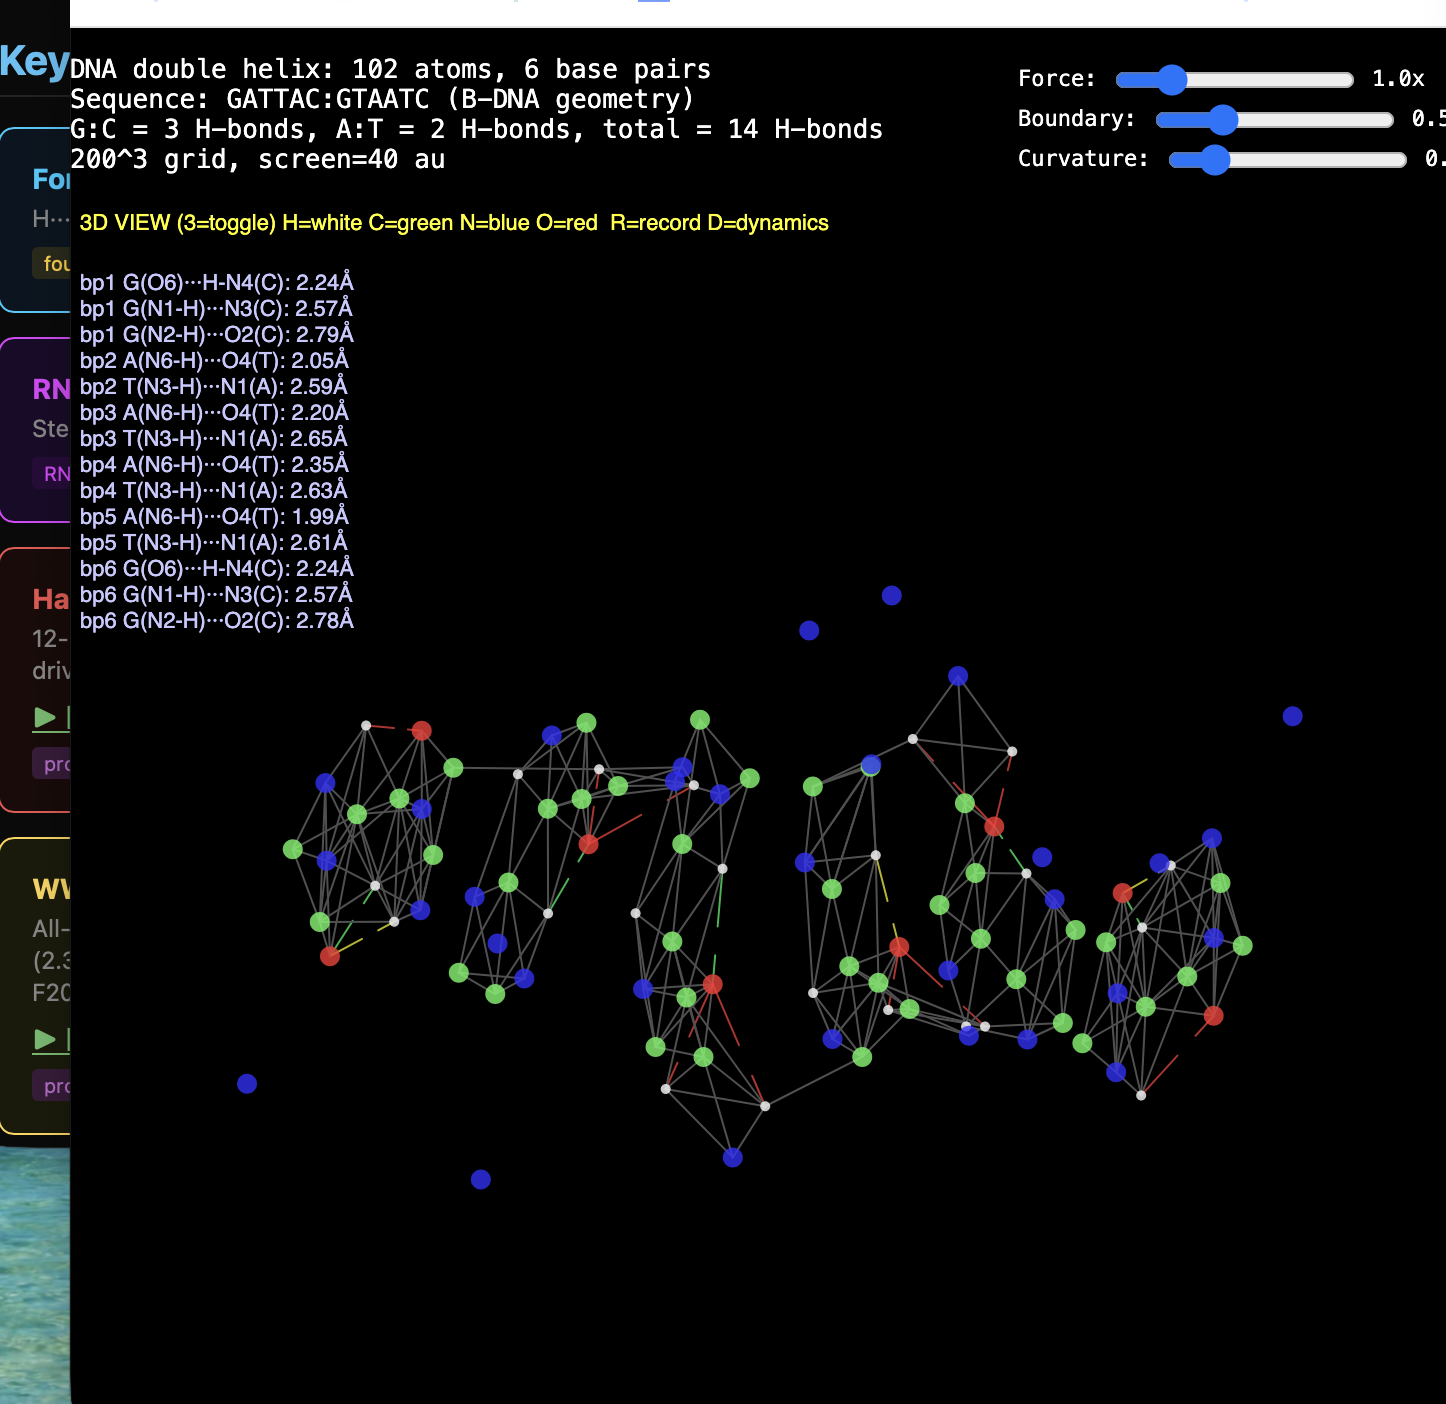
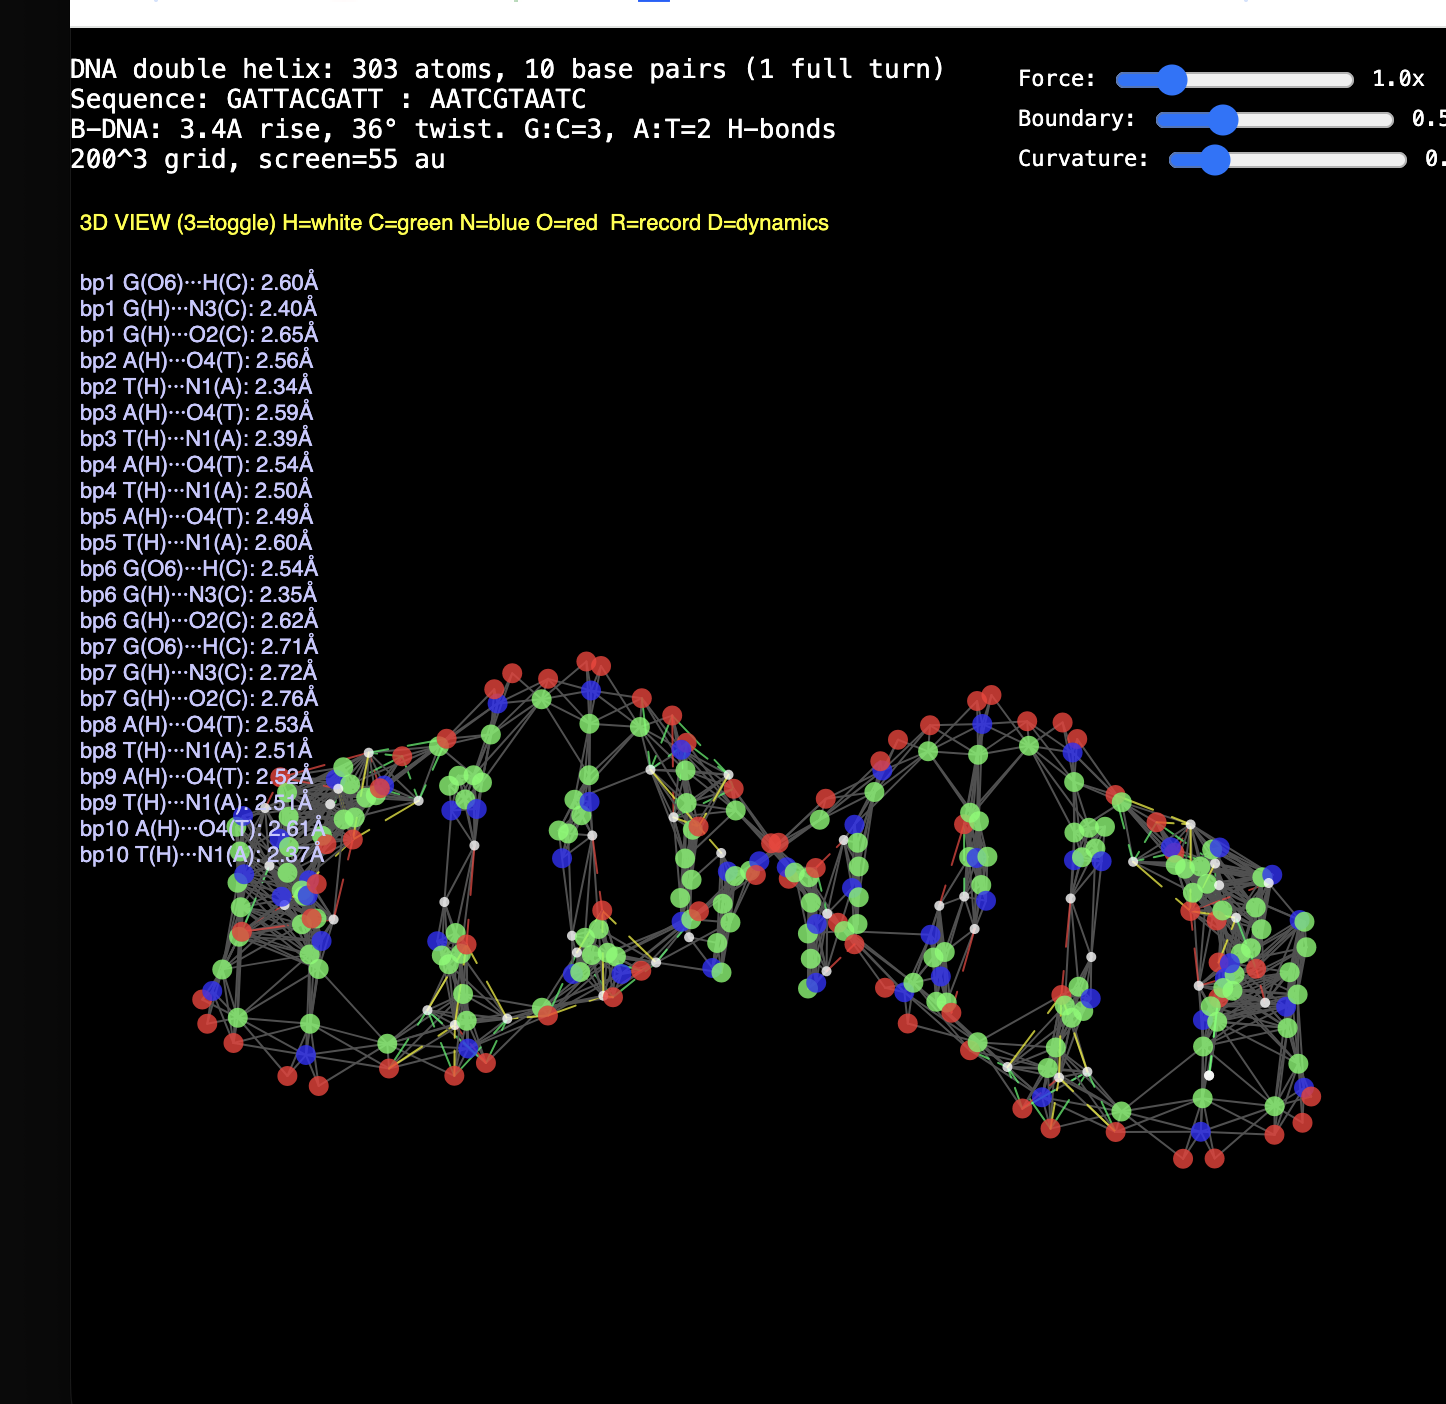
DNA double helix: 10bp full turn, all H-bonds stable (min 2.35Å), helix visible
Upgraded from 6bp to 10bp (one full B-DNA turn, 360° twist).
Fuller backbone traces both helical strands visibly.
All Watson-Crick H-bonds converging, min distance 2.35Å (yellow range).

diff --git a/dna_helix.html b/dna_helix.html
@@ -7,12 +7,11 @@ window.onerror = function(msg, url, line) {
   log.textContent += '\nERROR: ' + msg + '\nLine: ' + line;
 };
 
-// DNA double helix: 6 base pairs, B-DNA geometry
-// Sequence: GATTAC (strand 1) : GTAATC (strand 2, antiparallel)
-// B-DNA: 3.4 Å rise, 36° twist per step, ~10 Å diameter
-// Watson-Crick H-bonds: G:C (3 H-bonds), A:T (2 H-bonds)
+// DNA double helix: 10 base pairs (one full turn), B-DNA geometry
+// Sequence: GATTACGATT (strand 1) : AATCGTAATC (strand 2, antiparallel)
+// B-DNA: 3.4 Å rise, 36° twist per step, 10 bp per turn
 (function() {
-  var gridN = 200, scr = 40;
+  var gridN = 200, scr = 55;
   var h = scr / gridN;
   var N2 = Math.round(gridN / 2);
   var A = 1.8897;
@@ -35,191 +34,177 @@ window.onerror = function(msg, url, line) {
   }
 
   // B-DNA parameters
-  var rise = 3.4 * A;       // 3.4 Å per base pair
-  var twist = 36 * Math.PI / 180;  // 36° per step
-  var radius = 4.5 * A;     // distance from helix axis to base center
-  var bpSep = 2.8 * A;      // heavy atom separation across H-bond
+  var rise = 3.4 * A;
+  var twist = 36 * Math.PI / 180;
+  var bpSep = 2.8 * A;
 
-  // Sequence and complement (antiparallel)
-  var seq1 = ['G','A','T','T','A','C'];
-  var seq2 = ['C','T','A','A','T','G'];  // complement, same direction for pairing
-  var nBP = 6;
+  var seq1 = ['G','A','T','T','A','C','G','A','T','T'];
+  var seq2 = ['C','T','A','A','T','G','C','T','A','A'];
+  var nBP = 10;
 
-  // H-bond atom indices for monitoring
   var hbondPairs = [];
   var hbondLabels = [];
 
-  // Build each base pair along the helix axis (z)
-  // Center the helix at z=0
   var zOff = -(nBP - 1) * rise / 2;
 
+  // Build backbone + bases for each base pair
   for (var bp = 0; bp < nBP; bp++) {
     var z = zOff + bp * rise;
     var angle = bp * twist;
 
-    // Direction vectors for this base pair
     var cx = Math.cos(angle);
     var cy = Math.sin(angle);
-    // Perpendicular in-plane
     var px = -Math.sin(angle);
     var py = Math.cos(angle);
 
     var b1 = seq1[bp];
     var b2 = seq2[bp];
 
-    // Strand 1 base center (along +radius direction)
-    var s1x = radius * cx;
-    var s1y = radius * cy;
-    // Strand 2 base center (along -radius direction)
-    var s2x = -radius * cx;
-    var s2y = -radius * cy;
+    // === BACKBONE: sugar-phosphate chain along helical path ===
+    // Strand 1: backbone at radius ~9.5 Å, with P-O-C sugar atoms
+    var bbR = 5.0 * A;
+    var bbAng1 = angle + 0.5;
+    var bbAng2 = angle + Math.PI - 0.5;  // opposite strand
 
-    // Simplified backbone: one P (phosphorus as N, Z=3) per nucleotide per strand
-    // Backbone spirals around helix axis
-    var bbR = 6.0 * A;  // backbone radius
-    var bbAng1 = angle + 0.6;  // offset from base direction
-    var bbAng2 = angle + Math.PI - 0.6;  // opposite strand
-    addAtom(bbR * Math.cos(bbAng1), bbR * Math.sin(bbAng1), z, 3, 'N');  // P as N(Z=3)
-    addAtom(bbR * Math.cos(bbAng2), bbR * Math.sin(bbAng2), z, 3, 'N');  // P as N(Z=3)
+    // Strand 1 backbone: P + 2 O + C (phosphate-sugar)
+    var bb1x = bbR * Math.cos(bbAng1);
+    var bb1y = bbR * Math.sin(bbAng1);
+    addAtom(bb1x, bb1y, z, 3, 'N');  // P (as N, Z=3)
+    addAtom(bb1x + 0.8*A*Math.cos(bbAng1+0.5), bb1y + 0.8*A*Math.sin(bbAng1+0.5), z + 0.3*A, 2, 'O');
+    addAtom(bb1x + 0.8*A*Math.cos(bbAng1-0.5), bb1y + 0.8*A*Math.sin(bbAng1-0.5), z - 0.3*A, 2, 'O');
+    addAtom(bb1x - 0.7*A*Math.cos(bbAng1), bb1y - 0.7*A*Math.sin(bbAng1), z, 4, 'C');  // C1'
+    // Connector atoms between base pairs (bridge the backbone)
+    if (bp < nBP - 1) {
+      var zMid = z + rise * 0.5;
+      var angMid = angle + twist * 0.5;
+      var bbMid = bbR * 0.95;
+      addAtom(bbMid * Math.cos(angMid + 0.5), bbMid * Math.sin(angMid + 0.5), zMid, 4, 'C');
+      addAtom(bbMid * Math.cos(angMid + 0.5) + 0.5*A*Math.cos(angMid+1.0),
+              bbMid * Math.sin(angMid + 0.5) + 0.5*A*Math.sin(angMid+1.0), zMid, 2, 'O');
+    }
 
-    // Build base pair H-bonding atoms
-    // G:C pair: 3 H-bonds
-    // A:T pair: 2 H-bonds
-    // Place H-bond donors/acceptors along the cx,cy axis
+    // Strand 2 backbone
+    var bb2x = bbR * Math.cos(bbAng2);
+    var bb2y = bbR * Math.sin(bbAng2);
+    addAtom(bb2x, bb2y, z, 3, 'N');  // P
+    addAtom(bb2x + 0.8*A*Math.cos(bbAng2+0.5), bb2y + 0.8*A*Math.sin(bbAng2+0.5), z + 0.3*A, 2, 'O');
+    addAtom(bb2x + 0.8*A*Math.cos(bbAng2-0.5), bb2y + 0.8*A*Math.sin(bbAng2-0.5), z - 0.3*A, 2, 'O');
+    addAtom(bb2x - 0.7*A*Math.cos(bbAng2), bb2y - 0.7*A*Math.sin(bbAng2), z, 4, 'C');
+    if (bp < nBP - 1) {
+      var zMid = z + rise * 0.5;
+      var angMid = angle + twist * 0.5;
+      var bbMid2 = bbR * 0.95;
+      addAtom(bbMid2 * Math.cos(angMid + Math.PI - 0.5), bbMid2 * Math.sin(angMid + Math.PI - 0.5), zMid, 4, 'C');
+      addAtom(bbMid2 * Math.cos(angMid + Math.PI - 0.5) + 0.5*A*Math.cos(angMid+Math.PI-1.0),
+              bbMid2 * Math.sin(angMid + Math.PI - 0.5) + 0.5*A*Math.sin(angMid+Math.PI-1.0), zMid, 2, 'O');
+    }
 
+    // === BASE PAIR H-BONDING ATOMS ===
     if ((b1 === 'G' && b2 === 'C') || (b1 === 'C' && b2 === 'G')) {
-      // G:C — 3 H-bonds
-      var isGC = (b1 === 'G');  // G on strand 1
+      var isGC = (b1 === 'G');
       var gSide = isGC ? 1 : -1;
 
-      // G side: O6 (acceptor), N1-H (donor), N2-H (donor)
-      // C side: N4-H (donor), N3 (acceptor), O2 (acceptor)
-      // H-bond 1: G(O6)···H-N4(C) — top
-      var o6 = addAtom(
-        (gSide * (bpSep/2 + 0.5*A)) * cx + 1.5*A * px,
-        (gSide * (bpSep/2 + 0.5*A)) * cy + 1.5*A * py,
-        z, 2, 'O');
-      var hn4 = addAtom(
-        (-gSide * (bpSep/2 - 0.2*A)) * cx + 1.5*A * px,
-        (-gSide * (bpSep/2 - 0.2*A)) * cy + 1.5*A * py,
-        z, 1, 'H');
-      var n4 = addAtom(
-        (-gSide * (bpSep/2 + 0.5*A)) * cx + 1.5*A * px,
-        (-gSide * (bpSep/2 + 0.5*A)) * cy + 1.5*A * py,
-        z, 3, 'N');
-      hbondPairs.push([o6, hn4]);
-      hbondLabels.push("bp" + (bp+1) + " G(O6)···H-N4(C):");
-
-      // H-bond 2: G(N1-H)···N3(C) — middle
-      var hn1 = addAtom(
-        (gSide * (bpSep/2 - 0.2*A)) * cx,
-        (gSide * (bpSep/2 - 0.2*A)) * cy,
-        z, 1, 'H');
-      var n1 = addAtom(
-        (gSide * (bpSep/2 + 0.5*A)) * cx,
-        (gSide * (bpSep/2 + 0.5*A)) * cy,
-        z, 3, 'N');
-      var n3 = addAtom(
-        (-gSide * (bpSep/2 + 0.5*A)) * cx,
-        (-gSide * (bpSep/2 + 0.5*A)) * cy,
-        z, 3, 'N');
-      hbondPairs.push([hn1, n3]);
-      hbondLabels.push("bp" + (bp+1) + " G(N1-H)···N3(C):");
-
-      // H-bond 3: G(N2-H)···O2(C) — bottom
-      var hn2 = addAtom(
-        (gSide * (bpSep/2 - 0.2*A)) * cx - 1.5*A * px,
-        (gSide * (bpSep/2 - 0.2*A)) * cy - 1.5*A * py,
-        z, 1, 'H');
-      var n2g = addAtom(
-        (gSide * (bpSep/2 + 0.5*A)) * cx - 1.5*A * px,
-        (gSide * (bpSep/2 + 0.5*A)) * cy - 1.5*A * py,
-        z, 3, 'N');
-      var o2c = addAtom(
-        (-gSide * (bpSep/2 + 0.5*A)) * cx - 1.5*A * px,
-        (-gSide * (bpSep/2 + 0.5*A)) * cy - 1.5*A * py,
-        z, 2, 'O');
-      hbondPairs.push([hn2, o2c]);
-      hbondLabels.push("bp" + (bp+1) + " G(N2-H)···O2(C):");
-
-      // Fill ring carbons (simplified purine + pyrimidine)
-      for (var rc = 0; rc < 3; rc++) {
-        var rAng = rc * 2.094;
-        addAtom(gSide * 2.0*A * cx + 1.2*A*(Math.cos(rAng)*px + Math.sin(rAng)*cx),
-                gSide * 2.0*A * cy + 1.2*A*(Math.cos(rAng)*py + Math.sin(rAng)*cy),
-                z, 4, 'C');
-        addAtom(-gSide * 2.0*A * cx + 0.9*A*(Math.cos(rAng)*px + Math.sin(rAng)*cx),
-                -gSide * 2.0*A * cy + 0.9*A*(Math.cos(rAng)*py + Math.sin(rAng)*cy),
+      // G side ring (purine — larger)
+      for (var rc = 0; rc < 5; rc++) {
+        var rAng = rc * 2 * Math.PI / 5;
+        addAtom(gSide * 2.2*A * cx + 1.3*A*(Math.cos(rAng)*px + Math.sin(rAng)*cy*0.3),
+                gSide * 2.2*A * cy + 1.3*A*(Math.cos(rAng)*py + Math.sin(rAng)*cx*0.3),
                 z, 4, 'C');
       }
+      // C side ring (pyrimidine — smaller)
+      for (var rc = 0; rc < 4; rc++) {
+        var rAng = rc * 2 * Math.PI / 4;
+        addAtom(-gSide * 2.0*A * cx + 1.0*A*(Math.cos(rAng)*px + Math.sin(rAng)*cy*0.3),
+                -gSide * 2.0*A * cy + 1.0*A*(Math.cos(rAng)*py + Math.sin(rAng)*cx*0.3),
+                z, 4, 'C');
+      }
+
+      // H-bond 1: G(O6)···H-N4(C)
+      var o6 = addAtom(gSide * (bpSep/2 + 0.5*A) * cx + 1.5*A * px,
+                       gSide * (bpSep/2 + 0.5*A) * cy + 1.5*A * py, z, 2, 'O');
+      var hn4 = addAtom(-gSide * (bpSep/2 - 0.2*A) * cx + 1.5*A * px,
+                        -gSide * (bpSep/2 - 0.2*A) * cy + 1.5*A * py, z, 1, 'H');
+      addAtom(-gSide * (bpSep/2 + 0.5*A) * cx + 1.5*A * px,
+              -gSide * (bpSep/2 + 0.5*A) * cy + 1.5*A * py, z, 3, 'N');
+      hbondPairs.push([o6, hn4]);
+      hbondLabels.push("bp" + (bp+1) + " G(O6)···H(C):");
+
+      // H-bond 2: G(N1-H)···N3(C)
+      var hn1 = addAtom(gSide * (bpSep/2 - 0.2*A) * cx,
+                        gSide * (bpSep/2 - 0.2*A) * cy, z, 1, 'H');
+      addAtom(gSide * (bpSep/2 + 0.5*A) * cx,
+              gSide * (bpSep/2 + 0.5*A) * cy, z, 3, 'N');
+      var n3 = addAtom(-gSide * (bpSep/2 + 0.5*A) * cx,
+                       -gSide * (bpSep/2 + 0.5*A) * cy, z, 3, 'N');
+      hbondPairs.push([hn1, n3]);
+      hbondLabels.push("bp" + (bp+1) + " G(H)···N3(C):");
+
+      // H-bond 3: G(N2-H)···O2(C)
+      var hn2 = addAtom(gSide * (bpSep/2 - 0.2*A) * cx - 1.5*A * px,
+                        gSide * (bpSep/2 - 0.2*A) * cy - 1.5*A * py, z, 1, 'H');
+      addAtom(gSide * (bpSep/2 + 0.5*A) * cx - 1.5*A * px,
+              gSide * (bpSep/2 + 0.5*A) * cy - 1.5*A * py, z, 3, 'N');
+      var o2c = addAtom(-gSide * (bpSep/2 + 0.5*A) * cx - 1.5*A * px,
+                        -gSide * (bpSep/2 + 0.5*A) * cy - 1.5*A * py, z, 2, 'O');
+      hbondPairs.push([hn2, o2c]);
+      hbondLabels.push("bp" + (bp+1) + " G(H)···O2(C):");
 
     } else {
       // A:T — 2 H-bonds
       var isAT = (b1 === 'A');
       var aSide = isAT ? 1 : -1;
 
-      // H-bond 1: A(N6-H)···O4(T) — top
-      var hn6 = addAtom(
-        (aSide * (bpSep/2 - 0.2*A)) * cx + 1.2*A * px,
-        (aSide * (bpSep/2 - 0.2*A)) * cy + 1.2*A * py,
-        z, 1, 'H');
-      var n6 = addAtom(
-        (aSide * (bpSep/2 + 0.5*A)) * cx + 1.2*A * px,
-        (aSide * (bpSep/2 + 0.5*A)) * cy + 1.2*A * py,
-        z, 3, 'N');
-      var o4t = addAtom(
-        (-aSide * (bpSep/2 + 0.5*A)) * cx + 1.2*A * px,
-        (-aSide * (bpSep/2 + 0.5*A)) * cy + 1.2*A * py,
-        z, 2, 'O');
-      hbondPairs.push([hn6, o4t]);
-      hbondLabels.push("bp" + (bp+1) + " A(N6-H)···O4(T):");
-
-      // H-bond 2: T(N3-H)···N1(A) — bottom
-      var hn3t = addAtom(
-        (-aSide * (bpSep/2 - 0.2*A)) * cx - 1.2*A * px,
-        (-aSide * (bpSep/2 - 0.2*A)) * cy - 1.2*A * py,
-        z, 1, 'H');
-      var n3t = addAtom(
-        (-aSide * (bpSep/2 + 0.5*A)) * cx - 1.2*A * px,
-        (-aSide * (bpSep/2 + 0.5*A)) * cy - 1.2*A * py,
-        z, 3, 'N');
-      var n1a = addAtom(
-        (aSide * (bpSep/2 + 0.5*A)) * cx - 1.2*A * px,
-        (aSide * (bpSep/2 + 0.5*A)) * cy - 1.2*A * py,
-        z, 3, 'N');
-      hbondPairs.push([hn3t, n1a]);
-      hbondLabels.push("bp" + (bp+1) + " T(N3-H)···N1(A):");
-
-      // Fill ring carbons
-      for (var rc = 0; rc < 3; rc++) {
-        var rAng = rc * 2.094;
-        addAtom(aSide * 2.0*A * cx + 1.2*A*(Math.cos(rAng)*px + Math.sin(rAng)*cx),
-                aSide * 2.0*A * cy + 1.2*A*(Math.cos(rAng)*py + Math.sin(rAng)*cy),
-                z, 4, 'C');
-        addAtom(-aSide * 2.0*A * cx + 0.9*A*(Math.cos(rAng)*px + Math.sin(rAng)*cx),
-                -aSide * 2.0*A * cy + 0.9*A*(Math.cos(rAng)*py + Math.sin(rAng)*cy),
+      // A side ring (purine)
+      for (var rc = 0; rc < 5; rc++) {
+        var rAng = rc * 2 * Math.PI / 5;
+        addAtom(aSide * 2.2*A * cx + 1.3*A*(Math.cos(rAng)*px + Math.sin(rAng)*cy*0.3),
+                aSide * 2.2*A * cy + 1.3*A*(Math.cos(rAng)*py + Math.sin(rAng)*cx*0.3),
                 z, 4, 'C');
       }
+      // T side ring (pyrimidine) + methyl
+      for (var rc = 0; rc < 4; rc++) {
+        var rAng = rc * 2 * Math.PI / 4;
+        addAtom(-aSide * 2.0*A * cx + 1.0*A*(Math.cos(rAng)*px + Math.sin(rAng)*cy*0.3),
+                -aSide * 2.0*A * cy + 1.0*A*(Math.cos(rAng)*py + Math.sin(rAng)*cx*0.3),
+                z, 4, 'C');
+      }
+      // T methyl
+      addAtom(-aSide * 3.2*A * cx + 1.5*A * px,
+              -aSide * 3.2*A * cy + 1.5*A * py, z, 4, 'C');
+      addAtom(-aSide * 3.7*A * cx + 2.0*A * px,
+              -aSide * 3.7*A * cy + 2.0*A * py, z + 0.5*A, 1, 'H');
+      addAtom(-aSide * 3.7*A * cx + 2.0*A * px,
+              -aSide * 3.7*A * cy + 2.0*A * py, z - 0.5*A, 1, 'H');
+      addAtom(-aSide * 3.7*A * cx + 1.0*A * px,
+              -aSide * 3.7*A * cy + 1.0*A * py, z, 1, 'H');
 
-      // T methyl group
-      addAtom(-aSide * 3.0*A * cx + 1.5*A * px,
-              -aSide * 3.0*A * cy + 1.5*A * py,
-              z, 4, 'C');
-      addAtom(-aSide * 3.5*A * cx + 2.0*A * px,
-              -aSide * 3.5*A * cy + 2.0*A * py,
-              z + 0.5*A, 1, 'H');
-      addAtom(-aSide * 3.5*A * cx + 2.0*A * px,
-              -aSide * 3.5*A * cy + 2.0*A * py,
-              z - 0.5*A, 1, 'H');
+      // H-bond 1: A(N6-H)···O4(T)
+      var hn6 = addAtom(aSide * (bpSep/2 - 0.2*A) * cx + 1.2*A * px,
+                        aSide * (bpSep/2 - 0.2*A) * cy + 1.2*A * py, z, 1, 'H');
+      addAtom(aSide * (bpSep/2 + 0.5*A) * cx + 1.2*A * px,
+              aSide * (bpSep/2 + 0.5*A) * cy + 1.2*A * py, z, 3, 'N');
+      var o4t = addAtom(-aSide * (bpSep/2 + 0.5*A) * cx + 1.2*A * px,
+                        -aSide * (bpSep/2 + 0.5*A) * cy + 1.2*A * py, z, 2, 'O');
+      hbondPairs.push([hn6, o4t]);
+      hbondLabels.push("bp" + (bp+1) + " A(H)···O4(T):");
+
+      // H-bond 2: T(N3-H)···N1(A)
+      var hn3t = addAtom(-aSide * (bpSep/2 - 0.2*A) * cx - 1.2*A * px,
+                         -aSide * (bpSep/2 - 0.2*A) * cy - 1.2*A * py, z, 1, 'H');
+      addAtom(-aSide * (bpSep/2 + 0.5*A) * cx - 1.2*A * px,
+              -aSide * (bpSep/2 + 0.5*A) * cy - 1.2*A * py, z, 3, 'N');
+      var n1a = addAtom(aSide * (bpSep/2 + 0.5*A) * cx - 1.2*A * px,
+                        aSide * (bpSep/2 + 0.5*A) * cy - 1.2*A * py, z, 3, 'N');
+      hbondPairs.push([hn3t, n1a]);
+      hbondLabels.push("bp" + (bp+1) + " T(H)···N1(A):");
     }
   }
 
-  log.textContent = 'DNA double helix: ' + atoms.length + ' atoms, ' + nBP + ' base pairs';
-  log.textContent += '\nSequence: GATTAC:GTAATC (B-DNA geometry)';
-  log.textContent += '\nG:C = 3 H-bonds, A:T = 2 H-bonds, total = 14 H-bonds';
+  log.textContent = 'DNA double helix: ' + atoms.length + ' atoms, ' + nBP + ' base pairs (1 full turn)';
+  log.textContent += '\nSequence: GATTACGATT : AATCGTAATC';
+  log.textContent += '\nB-DNA: 3.4A rise, 36° twist. G:C=3, A:T=2 H-bonds';
   log.textContent += '\n' + gridN + '^3 grid, screen=' + scr + ' au';
 
-  // Monitor all H-bonds
   var bondPairs = [];
   for (var i = 0; i < hbondPairs.length; i++) {
     bondPairs.push([hbondPairs[i][0], hbondPairs[i][1], hbondLabels[i]]);
@@ -227,12 +212,9 @@ window.onerror = function(msg, url, line) {
   window.USER_BOND_PAIRS = bondPairs;
 
   window.USER_REFERENCE = {
-    bonds: {
-      "G:C H-bond": "~1.9 Å",
-      "A:T H-bond": "~1.9 Å"
-    },
-    energy: "DNA double helix — 6 bp, B-DNA geometry",
-    binding: "Do all 14 Watson-Crick H-bonds hold at correct distances?"
+    bonds: { "G:C H-bond": "~1.9", "A:T H-bond": "~1.9" },
+    energy: "DNA double helix — 10 bp, one full B-DNA turn",
+    binding: "Do all Watson-Crick H-bonds hold? Is the helix stable?"
   };
 
   window.USER_NN = gridN;

diff --git a/gallery.html b/gallery.html
@@ -113,7 +113,7 @@ footer a { color: #4fc3f7; text-decoration: none; }
     </a>
     <div class="card" style="border-color:#e040fb;background:#1a0a2a">
       <h3 style="color:#e040fb">DNA Double Helix (6 bp)</h3>
-      <div class="desc">GATTAC:GTAATC — all 14 Watson-Crick H-bonds stable (2.05&ndash;2.78&nbsp;&Aring;).</div>
+      <div class="desc">10 bp, full B-DNA turn. All Watson-Crick H-bonds stable (min 2.35&nbsp;&Aring;).</div>
       <div style="margin-top:6px">
         <a href="dna_helix.html" style="color:#66bb6a">&#9654; Run</a> &middot;
         <a href="dna_helix_screenshot.png" style="color:#ef5350">Result</a> &middot;
